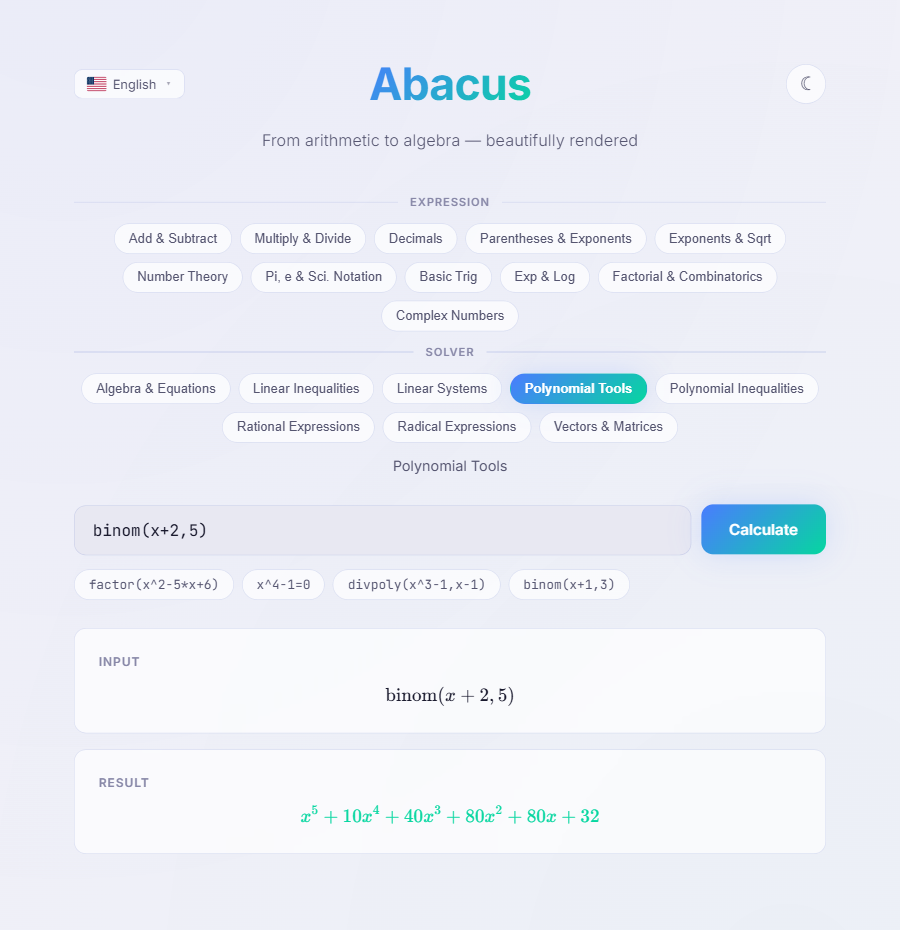
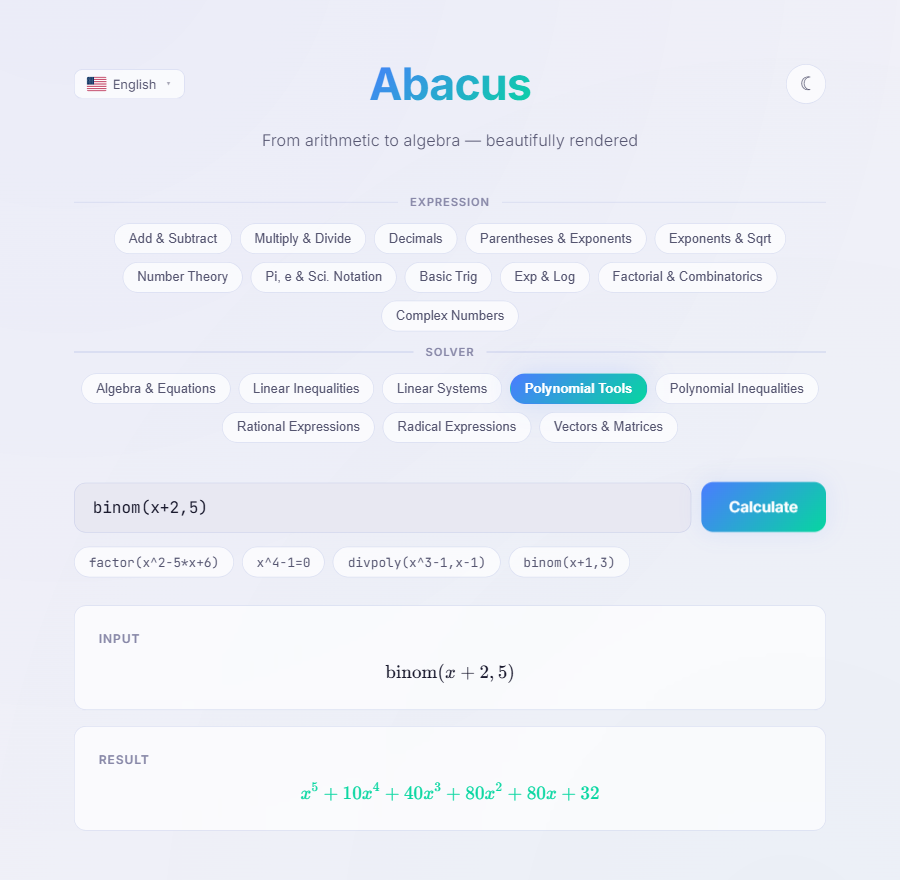
Remove redundant description line, translate calculator pill names
- Remove the calc-description div that repeated the pill's label
- Pills now show translated names via i18n lookup (t(calcN_desc))
  so switching language translates the pill text
- Update screenshot

diff --git a/static/app.js b/static/app.js
@@ -85,7 +85,6 @@
   var langMenu        = document.getElementById("langMenu");
   var themeToggle     = document.getElementById("themeToggle");
   var selectorScroll  = document.getElementById("selectorScroll");
-  var calcDescription = document.getElementById("calcDescription");
   var exprInput       = document.getElementById("exprInput");
   var calcBtn         = document.getElementById("calcBtn");
   var examplesRow     = document.getElementById("examplesRow");
@@ -256,14 +255,13 @@
         var pill = document.createElement("button");
         pill.className = "calc-pill";
         if (currentCalc && currentCalc.id === c.id) pill.className += " active";
-        pill.textContent = c.desc || c.name;
+        pill.textContent = t(c.id + "_desc", c.desc || c.name);
         pill.setAttribute("data-id", c.id);
         pill.addEventListener("click", function() { selectCalc(c); });
         selectorScroll.appendChild(pill);
       })(calcs[i]);
     }
     if (currentCalc) {
-      calcDescription.textContent = t(currentCalc.id + "_desc", currentCalc.desc);
       renderExamples(currentCalc.examples || []);
     }
   }
@@ -278,7 +276,6 @@
         pills[i].className = "calc-pill";
       }
     }
-    calcDescription.textContent = t(c.id + "_desc", c.desc);
     renderExamples(c.examples || []);
     outputSection.classList.remove("visible");
     outputContent.innerHTML = "";

diff --git a/static/style.css b/static/style.css
@@ -307,14 +307,6 @@ header p {
   white-space: nowrap;
 }
 
-.calc-description {
-  text-align: center;
-  color: var(--text-secondary);
-  font-size: 0.9rem;
-  min-height: 1.6em;
-  transition: opacity var(--transition), color 0.3s ease;
-}
-
 /* ===== INPUT SECTION ===== */
 .input-section {
   margin-bottom: 28px;

diff --git a/static/index.html b/static/index.html
@@ -44,7 +44,6 @@
     <div class="selector-scroll" id="selectorScroll">
       <!-- Pills populated dynamically from /api/calculators -->
     </div>
-    <div class="calc-description" id="calcDescription">Loading...</div>
   </section>
 
   <!-- INPUT -->
